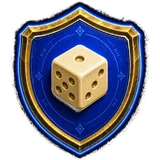
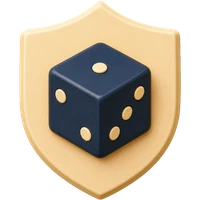
Wappensatz vom 27.08., Abschnitt 03 in die Form der uebrigen Seite
Wolf hatte recht mit dem Datum: heute um 19:08 hat die App die
Kolosseum-Wappen abgeloest, die ich Stunden vorher eingebaut hatte.
Neu ist ein cremefarbenes Schild mit farbigem Zeichen im Knet-Look des
Avatarsatzes. Uebernommen aus den Originalen, die Wolf geschickt hat,
1024 px, freigestellt, quadratisch zentriert, auf 200 px gerechnet.

Wichtig und in cozyArenaCrests.ts eigens vermerkt: die Fraktionsfarbe
steckt nicht mehr im Wappen, sie muss von der Flaeche darunter kommen.
Die Wappen sitzen also wieder auf der Kachel, sonst unterscheiden sich
die acht Fraktionen nur noch am Zeichen. Das Schild ist hoch und
schmal, deshalb ein eigener Motivanteil von 0,8 statt 0,9.

Abschnitt 03 trug drei Formen, die es sonst nirgends auf der Seite
gibt. Zwei Grossbuchstabenzeilen standen uebereinander und ueberdeckten
sich sogar. Der blaue Kasten war der letzte Kasten der Seite, er ist
jetzt eine Haarlinie. Die Fragetypen standen als Kapseln, jetzt sind es
Zeilen mit Haarlinie wie die Punkte in 01 und die Fragen in 06. Der
Bogen bleibt.

Der Strich in der Kennzeile war noch pink, jetzt orange.

Claude-Session: https://claude.ai/code/session_019gu6D5asMzeSKsrn25LxZ9

diff --git a/src/pages/OnePage.tsx b/src/pages/OnePage.tsx
@@ -757,7 +757,7 @@ class OnePageInner extends Component<{ lang: Lang }, OPState> {
     return (
       <div data-reveal="" style={sx('display:flex;align-items:center;gap:12px;margin:0 0 14px;font-size:11.5px;font-weight:900;letter-spacing:.2em;text-transform:uppercase;color:rgba(246,239,230,.62);white-space:nowrap')}>
         {label.split('|')[0]}
-        <span style={sx('flex:1;height:1px;background:linear-gradient(90deg,rgba(250,75,163,.35),transparent);max-width:180px')}></span>
+        <span style={sx('flex:1;height:1px;background:linear-gradient(90deg,rgba(249,115,22,.4),transparent);max-width:180px')}></span>
         <span style={sx('color:rgba(246,239,230,.5)')}>{label.split('|')[1]}</span>
       </div>
     );
@@ -874,7 +874,7 @@ class OnePageInner extends Component<{ lang: Lang }, OPState> {
                     + `border:1px solid ${frakAn ? frakAn.color + '4d' : 'transparent'};`
                     + `opacity:${frakAn ? 1 : 0};transform:translateY(${frakAn ? '0' : '6px'});`
                     + `transition:opacity .34s ${EASE},transform .34s ${EASE},background .34s ${EASE},border-color .34s ${EASE}`)}>
-                    <span style={sx(`flex:none;width:42px;height:42px;background:${frakAn ? `url(/assets/crest-${frakAn.id}.webp) center/contain no-repeat` : 'none'};filter:drop-shadow(0 3px 6px rgba(0,0,0,.5))`)}></span>
+                    <span style={sx(frakAn ? teammarke(frakAn.color, `/assets/crest-${frakAn.id}.webp`, 42) : 'flex:none;width:42px;height:42px')}></span>
                     <span style={sx('min-width:0;display:flex;flex-direction:column;gap:3px')}>
                       <span style={sx(`font-size:12px;font-weight:900;letter-spacing:.14em;text-transform:uppercase;color:${frakAn ? frakAn.color : 'transparent'}`)}>{frakAn ? L.sim.factions[frakAn.id] : '\u00a0'}</span>
                       <span style={sx('font-size:15.5px;line-height:1.4;font-weight:600;color:rgba(246,239,230,.82);text-wrap:pretty')}>{frakAn ? `\u201e${L.sim.mottos[frakAn.id]}\u201c` : '\u00a0'}</span>
@@ -938,12 +938,16 @@ class OnePageInner extends Component<{ lang: Lang }, OPState> {
           onMouseLeave={() => { if (!this._coarse) this.setState({ frak: null }); }}
           style={sx(`position:absolute;left:0;right:0;top:0;height:${H}%;display:flex;align-items:center;gap:10px;padding:0 10px;border-radius:12px;box-sizing:border-box;transform:translateY(${r * 100}%);transition:transform 1.5s ${EASE},background .35s ease,border-color .35s ease,box-shadow .35s ease;cursor:default;${rahmen}`)}>
           <span style={sx(`flex:none;width:18px;text-align:center;font-size:15px;font-weight:900;color:${leadNow || hov ? '#F6EFE6' : 'rgba(246,239,230,.5)'};transition:color .5s ease`)}>{r + 1}</span>
-          {/* Die Kolosseum-Wappen der App tragen Rahmen und Farbe selbst mit,
-              deshalb flach und ohne Farbkachel dahinter, genau wie CrestAvatar
-              in der App (cozyArenaCrests.ts, Stand 2026-07-17). */}
-          <span style={sx(`flex:none;width:34px;height:34px;background:url(/assets/crest-${f.id}.webp) center/contain no-repeat;`
-            + `filter:drop-shadow(0 3px 5px rgba(0,0,0,.5))${hov ? ` drop-shadow(0 0 9px ${f.color}88)` : ''};`
-            + `transform:scale(${hov ? 1.12 : 1});transition:transform .3s ${EASE},filter .3s ${EASE}`)}></span>
+          {/* Wappensatz vom 27.08.: cremefarbenes Schild mit farbigem Zeichen,
+              im Knet-Look des Avatarsatzes. Loest die Kolosseum-Wappen vom
+              17.07. ab, die ich am selben Tag noch eingebaut hatte, bevor
+              Wolf auf das Datum hingewiesen hat.
+              Wichtig und in cozyArenaCrests.ts eigens vermerkt: die
+              Fraktionsfarbe steckt NICHT mehr im Wappen. Sie muss von der
+              Flaeche darunter kommen, sonst unterscheiden sich die acht
+              Fraktionen nur noch am Zeichen. Also wieder auf der Kachel. */}
+          <span style={sx(teammarke(f.color, `/assets/crest-${f.id}.webp`, 34)
+            + `transform:scale(${hov ? 1.1 : 1});transition:transform .3s ${EASE}`)}></span>
           <span style={sx('flex:none;width:124px;min-width:0')}>
             <span style={sx(`display:block;font-size:13.5px;font-weight:900;line-height:1.15;color:${f.color};white-space:nowrap;overflow:hidden;text-overflow:ellipsis`)}>{L.sim.factions[f.id]}</span>
           </span>
@@ -1429,14 +1433,25 @@ class OnePageInner extends Component<{ lang: Lang }, OPState> {
 
     return (
       <section id="probieren" data-ton="59,130,246" style={sx('border-top:1px solid rgba(246,239,230,.10);border-bottom:1px solid rgba(246,239,230,.10);background:radial-gradient(ellipse at 50% 0%,rgba(246,239,230,.04),transparent 65%)')}>
-        <div data-shell="" style={sx('max-width:1180px;margin:0 auto;padding:80px 32px;display:grid;grid-template-columns:1fr 600px;gap:40px;align-items:center')} data-m="two2">
+        <div data-shell="" style={sx('max-width:1180px;margin:0 auto;padding:84px 32px;display:grid;grid-template-columns:1fr 600px;gap:48px;align-items:center')} data-m="two2">
           <div>
-            <div data-reveal="" style={sx('font-size:13px;font-weight:900;letter-spacing:.16em;text-transform:uppercase;color:rgba(246,239,230,.62)')}>{L.probe.kicker}</div>
+            {/* Wolf am 27.08.: "passt sektion 03 jetzt noch zum rest der
+                seite?". Nein, an drei Stellen. Erstens standen hier zwei
+                Grossbuchstabenzeilen uebereinander, die Kennzeile des
+                Abschnitts und L.probe.kicker, und sie ueberdeckten sich sogar.
+                Jetzt gilt dieselbe Folge wie ueberall: Kennzeile, Ueberschrift,
+                Text, und die zweite Zeile steht klein und ohne Versalien
+                darunter. */}
             {this.kicker(`[ 03 ]|${L.probe.label}`)}
-            <h2 data-reveal="" style={sx("margin:12px 0 14px;font-family:'League Spartan',sans-serif;font-size:34px;font-weight:900;color:#F6EFE6")}>{L.probe.h2}</h2>
+            <h2 data-reveal="" style={sx("margin:12px 0 10px;font-family:'League Spartan',sans-serif;font-size:34px;font-weight:900;color:#F6EFE6")}>{L.probe.h2}</h2>
+            <div data-reveal="" style={sx('margin-bottom:14px;font-size:14px;font-weight:700;color:rgba(246,239,230,.55)')}>{L.probe.kicker}</div>
             <p data-reveal="" style={sx('margin:0 0 26px;max-width:520px;font-size:17px;line-height:1.6;color:rgba(246,239,230,.78);font-weight:500')}>{L.probe.sub}</p>
-            <div style={sx(`margin-bottom:26px;padding:20px 22px;border-radius:18px;border:1px solid ${col}40;border-left:3px solid ${col};background:${col}0f;transition:border-color .3s ${EASE},background .3s ${EASE}`)}>
-              <div style={sx(`font-size:18px;font-weight:900;line-height:1.35;color:${col};margin-bottom:7px`)}>{catT.claim}</div>
+            {/* Zweitens war das hier der letzte Kasten der Seite: Rahmen,
+                Fuellung, dicker Balken links. 01, 02, 04 und 06 tragen
+                Haarlinien, also traegt 03 jetzt auch eine. Die Farbe des
+                Fragetyps bleibt, sie steht nur nicht mehr als Flaeche da. */}
+            <div style={sx(`margin-bottom:26px;padding:20px 0 0;border-top:1px solid rgba(246,239,230,.14);transition:border-color .3s ${EASE}`)}>
+              <div style={sx(`font-size:18px;font-weight:900;line-height:1.35;color:${col};margin-bottom:7px;transition:color .3s ${EASE}`)}>{catT.claim}</div>
               <div style={sx('font-size:15.5px;line-height:1.6;font-weight:500;color:rgba(246,239,230,.78)')}>{catT.detail}</div>
             </div>
             <div data-reveal="" style={sx('display:flex;flex-direction:column;gap:10px;font-size:15.5px;font-weight:700;color:#F6EFE6')}>
@@ -1453,7 +1468,7 @@ class OnePageInner extends Component<{ lang: Lang }, OPState> {
             }}
             onMouseLeave={() => this.setState({ ptilt: null })}
             data-m="probe" style={sx('display:flex;align-items:center;gap:52px;perspective:1200px')}>
-            <div style={sx('display:flex;flex-direction:column;gap:11px;flex:none')}>
+            <div style={sx('display:flex;flex-direction:column;flex:none;min-width:250px')}>
               {PROBE_ORDER.map((k, i) => {
                 const mt = CAT_META.find(c => c.key === k);
                 const ct = L.probe.cats[k];
@@ -1463,9 +1478,20 @@ class OnePageInner extends Component<{ lang: Lang }, OPState> {
                 const arc = Math.round(20 * Math.sin((i + 0.5) / n * Math.PI));
                 const pick = () => this.setState({ probeCat: k, probePick: null, guessRaw: '', guessDone: false, points: [4, 3, 3], pointsDone: false });
                 return (
+                  // Drittens: das hier waren die einzigen Kapseln in einer
+                  // Liste auf der ganzen Seite. Jetzt sind es Zeilen mit
+                  // Haarlinie, wie die Punkte in 01 und die Fragen in 06. Der
+                  // gewaehlte Fragetyp traegt einen Strich in seiner Farbe und
+                  // rueckt ein, statt sich aufzublasen. Der Bogen bleibt, er
+                  // war Wolfs Idee und stoert die Zeilenform nicht.
                   <button key={k} type="button" onMouseEnter={pick} onClick={pick}
-                    style={sx(`display:inline-flex;align-items:center;gap:12px;padding:14px 22px;border-radius:999px;cursor:pointer;font-family:inherit;font-size:16px;font-weight:900;white-space:nowrap;transform:translateX(${arc}px) scale(${onT ? 1.05 : 1});transform-origin:left center;background:${onT ? mt.col + '26' : 'rgba(246,239,230,.03)'};border:1px solid ${onT ? mt.col : 'rgba(246,239,230,.1)'};color:${onT ? mt.col : 'rgba(246,239,230,.78)'};box-shadow:${onT ? '0 0 26px ' + mt.col + '3d' : 'none'};transition:transform .55s ${EASE},background .3s ${EASE},border-color .3s ${EASE},color .3s ${EASE},box-shadow .4s ${EASE}`)}>
-                    <span style={sx(`display:block;width:30px;height:30px;flex:none;background:url(${mt.icon}) center/contain no-repeat;opacity:${onT ? 1 : .8}`)}></span>
+                    style={sx('display:flex;align-items:center;gap:14px;width:100%;box-sizing:border-box;padding:13px 0;cursor:pointer;'
+                      + 'font-family:inherit;font-size:16px;font-weight:900;white-space:nowrap;text-align:left;background:none;'
+                      + `border:none;border-top:1px solid rgba(246,239,230,.14);color:${onT ? mt.col : 'rgba(246,239,230,.7)'};`
+                      + `transform:translateX(${arc + (onT ? 8 : 0)}px);`
+                      + `transition:transform .55s ${EASE},color .3s ${EASE}`)}>
+                    <span aria-hidden="true" style={sx(`flex:none;width:${onT ? 26 : 14}px;height:2px;border-radius:2px;background:${onT ? mt.col : 'rgba(246,239,230,.3)'};transition:width .35s ${EASE},background .3s ${EASE}`)}></span>
+                    <span style={sx(`display:block;width:30px;height:30px;flex:none;background:url(${mt.icon}) center/contain no-repeat;opacity:${onT ? 1 : .7};transition:opacity .3s ${EASE}`)}></span>
                     {ct.name}
                   </button>
                 );

diff --git a/src/qqKachel.ts b/src/qqKachel.ts
@@ -51,6 +51,10 @@ const FILL: Record<string, number> = {
   // kleinerer Anteil, sonst stossen sie an die Kachelkante.
   '/assets/obj-sanduhr.webp': 0.74,
   '/assets/obj-puzzle.webp': 0.78,
+  // Die acht Fraktionswappen sind auf ihre Bounding-Box beschnitten und
+  // quadratisch zentriert, wie die Anlass-Motive. Das Schild ist hoch und
+  // schmal, bei 0.9 stiess es oben und unten an die Kachelkante.
+  'crest': 0.8,
   'crystal-ball': 0.89,
   'game-die': 0.78,
   'mushroom': 0.92,
@@ -66,6 +70,7 @@ const NUDGE: Record<string, [number, number]> = {
 function slugAus(av: string): string {
   // Pfade ohne das Praefix av-qq- (etwa die Anlass-Motive) bleiben, wie sie
   // sind, und werden in FILL unter dem vollen Pfad nachgeschlagen.
+  if (av.includes('/crest-')) return 'crest';
   if (!av.includes('av-qq-')) return av;
   return av.replace(/^.*av-qq-/, '').replace(/\.webp$/, '');
 }
